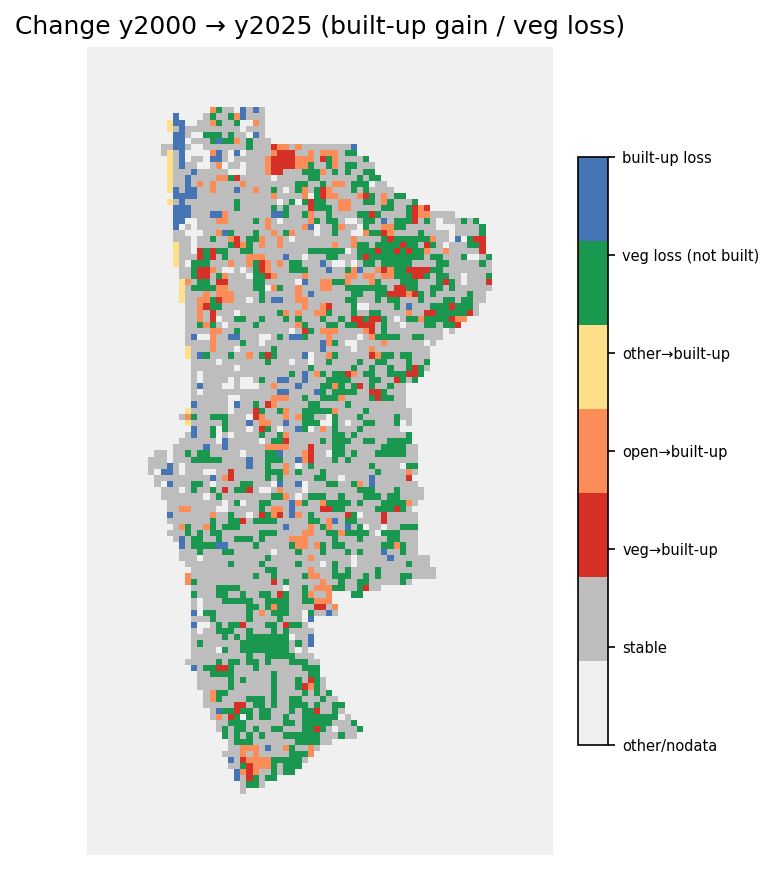
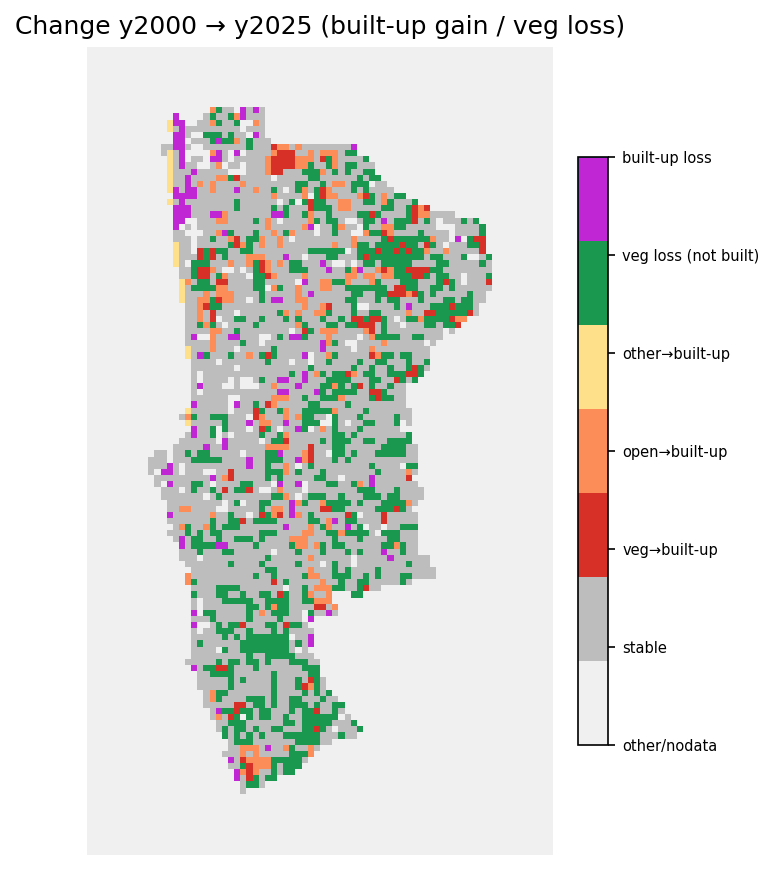
Add Esri satellite basemap and recolor built-up loss to magenta on the change map.

diff --git a/src/components/landCover/LandCoverMap.jsx b/src/components/landCover/LandCoverMap.jsx
@@ -4,6 +4,8 @@ import L from 'leaflet'
 import MapInvalidateOnResize from '../MapInvalidateOnResize.jsx'
 import FitBoundsToGeoJson from '../focusArea/FitBoundsToGeoJson.jsx'
 import {
+  DEFAULT_LC_BASEMAP,
+  LC_BASEMAPS,
   LC_CONTEXT_STYLES,
   LC_MAP_CENTER,
   LC_MAP_ZOOM,
@@ -76,11 +78,16 @@ export default function LandCoverMap({
   const [buildings, setBuildings] = useState(null)
   const [roads, setRoads] = useState(null)
   const [loading, setLoading] = useState(true)
+  const [basemapId, setBasemapId] = useState(DEFAULT_LC_BASEMAP)
 
   const activeOverlay = useMemo(() => getActiveLcOverlay(visibleLayers), [visibleLayers])
   const overlayUrl = useMemo(
     () => getOverlayUrlFromVisible(visibleLayers, epochId),
     [visibleLayers, epochId],
+  )
+  const basemap = useMemo(
+    () => LC_BASEMAPS.find((b) => b.id === basemapId) ?? LC_BASEMAPS[0],
+    [basemapId],
   )
   const showGnBoundaries = Boolean(visibleLayers?.gnBoundaries)
   const showBuildings = Boolean(visibleLayers?.buildings)
@@ -177,8 +184,9 @@ export default function LandCoverMap({
       >
         <MapInvalidateOnResize />
         <TileLayer
-          attribution='&copy; <a href="https://www.openstreetmap.org/copyright">OpenStreetMap</a>'
-          url="https://{s}.tile.openstreetmap.org/{z}/{x}/{y}.png"
+          key={basemap.id}
+          attribution={basemap.attribution}
+          url={basemap.url}
         />
         <FitBoundsToGeoJson data={aoi} padding={[48, 48]} maxZoom={15} />
         <FlyToSelectedGn selectedGn={selectedGn} gnData={gnData} />
@@ -232,8 +240,10 @@ export default function LandCoverMap({
       <LandCoverMapLayerFab
         visibleLayers={visibleLayers}
         epochId={epochId}
+        basemapId={basemapId}
         onToggle={onToggleLayer}
         onEpochChange={onEpochChange}
+        onBasemapChange={setBasemapId}
       />
       <LandCoverLegend activeOverlay={activeOverlay} />
     </div>

diff --git a/src/components/landCover/LandCoverMapLayerFab.jsx b/src/components/landCover/LandCoverMapLayerFab.jsx
@@ -1,14 +1,16 @@
 import { useEffect, useRef, useState } from 'react'
 import { Layers, X } from 'lucide-react'
 import L from 'leaflet'
-import { LC_EPOCHS, LC_FAB_LAYERS } from '../../constants/landCover.js'
+import { LC_BASEMAPS, LC_EPOCHS, LC_FAB_LAYERS } from '../../constants/landCover.js'
 
 /** Map FAB — Environmental-style on/off switches for overlays + GN boundaries. */
 export default function LandCoverMapLayerFab({
   visibleLayers,
   epochId,
+  basemapId,
   onToggle,
   onEpochChange,
+  onBasemapChange,
 }) {
   const [open, setOpen] = useState(false)
   const rootRef = useRef(null)
@@ -151,6 +153,32 @@ export default function LandCoverMapLayerFab({
               </div>
             </>
           )}
+
+          <div className="mx-0 border-t" style={{ borderColor: '#2a3a4a' }} />
+          <div className="px-4 py-2">
+            <p className="mb-1.5 text-[10px] font-semibold uppercase tracking-wide text-surface-400">
+              Basemap
+            </p>
+            <div className="flex gap-1">
+              {LC_BASEMAPS.map((bm) => {
+                const active = basemapId === bm.id
+                return (
+                  <button
+                    key={bm.id}
+                    type="button"
+                    onClick={() => onBasemapChange(bm.id)}
+                    className="flex-1 rounded-md px-2 py-1.5 text-center text-[12px] font-medium"
+                    style={{
+                      backgroundColor: active ? '#00b4d8' : 'rgba(255,255,255,0.06)',
+                      color: active ? '#0f172a' : '#e2e8f0',
+                    }}
+                  >
+                    {bm.label}
+                  </button>
+                )
+              })}
+            </div>
+          </div>
 
           <div className="mx-0 border-t" style={{ borderColor: '#2a3a4a' }} />
           <div className="py-1">

diff --git a/src/constants/landCover.js b/src/constants/landCover.js
@@ -20,6 +20,25 @@ export const LC_EPOCHS = [
   { id: 'y2025', label: '~2025', year: 2025 },
 ]
 
+/** Basemap choices — satellite for present-day ground view. */
+export const LC_BASEMAPS = [
+  {
+    id: 'satellite',
+    label: 'Satellite (current)',
+    url: 'https://server.arcgisonline.com/ArcGIS/rest/services/World_Imagery/MapServer/tile/{z}/{y}/{x}',
+    attribution:
+      'Tiles &copy; Esri &mdash; Source: Esri, Maxar, Earthstar Geographics, and the GIS User Community',
+  },
+  {
+    id: 'streets',
+    label: 'Streets',
+    url: 'https://{s}.tile.openstreetmap.org/{z}/{x}/{y}.png',
+    attribution: '&copy; <a href="https://www.openstreetmap.org/copyright">OpenStreetMap</a>',
+  },
+]
+
+export const DEFAULT_LC_BASEMAP = 'satellite'
+
 export const LC_LAYER_MODES = [
   { id: 'classified', label: 'Landsat classified LULC (30 m)', dot: '#1a9850' },
   { id: 'change', label: 'Landsat change 2000→2025 (30 m)', dot: '#d73027' },
@@ -67,7 +86,7 @@ export const LC_CHANGE_LEGEND = [
   { id: 'open_built', label: 'Open → built-up', color: '#fc8d59' },
   { id: 'other_built', label: 'Other → built-up', color: '#fee08b' },
   { id: 'veg_loss', label: 'Veg loss (not built)', color: '#1a9850' },
-  { id: 'built_loss', label: 'Built-up loss', color: '#4575b4' },
+  { id: 'built_loss', label: 'Built-up loss', color: '#c026d3' },
   { id: 'stable', label: 'Stable', color: '#bdbdbd' },
 ]
 

diff --git a/src/constants/userGuideContent.js b/src/constants/userGuideContent.js
@@ -90,7 +90,7 @@ export const USER_GUIDE_SECTIONS = [
     title: 'Land Cover Change',
     icon: 'Trees',
     bullets: [
-      'Use the map FAB to switch Landsat 30 m classified epochs (~2000 / ~2015 / ~2025) or change theme, and toggle OSM buildings / roads / GN boundaries.',
+      'Use the map FAB to switch Landsat 30 m classified epochs (~2000 / ~2015 / ~2025) or change theme, pick Satellite (current) or Streets basemap, and toggle OSM buildings / roads / GN boundaries.',
       'Click a GN on the map or in the left list to load its detail panel.',
       'Left KPIs and the stacked chart show Landsat 30 m change across all five GNs (2000→2025).',
       'Per-GN cards use Sentinel-2 10 m (2018–2025): Built-up, Green, and Soft surface. Green is inside Soft — do not add them. Mount Lavinia also includes a Landsat 30 m deep dive (2000→2025). Do not mix Landsat % with Sentinel-2 %.',

diff --git a/land_cover_change_analysis/scripts/04_validation_and_synthesis.py b/land_cover_change_analysis/scripts/04_validation_and_synthesis.py
@@ -297,7 +297,7 @@ def plot_site_panel(site: pd.Series, out_path: Path) -> None:
     rgb25 = stretch_rgb(rgb25)
     ch = ch[0] if ch.ndim == 3 else ch
 
-    change_colors = ["#f0f0f0", "#bdbdbd", "#d73027", "#fc8d59", "#fee08b", "#1a9850", "#4575b4"]
+    change_colors = ["#f0f0f0", "#bdbdbd", "#d73027", "#fc8d59", "#fee08b", "#1a9850", "#c026d3"]
     cmap = ListedColormap(change_colors)
 
     fig, axes = plt.subplots(1, 3, figsize=(12, 4.2), dpi=140)

diff --git a/land_cover_change_analysis/scripts/03_classify_and_change.py b/land_cover_change_analysis/scripts/03_classify_and_change.py
@@ -223,7 +223,7 @@ def plot_change(theme: np.ndarray, title: str, path: Path) -> None:
         "#fc8d59",  # 3 open -> built
         "#fee08b",  # 4 other -> built
         "#1a9850",  # 5 veg loss other
-        "#4575b4",  # 6 built loss
+        "#c026d3",  # 6 built loss (magenta — not water/soft blue)
     ]
     labels = [
         "other/nodata",
